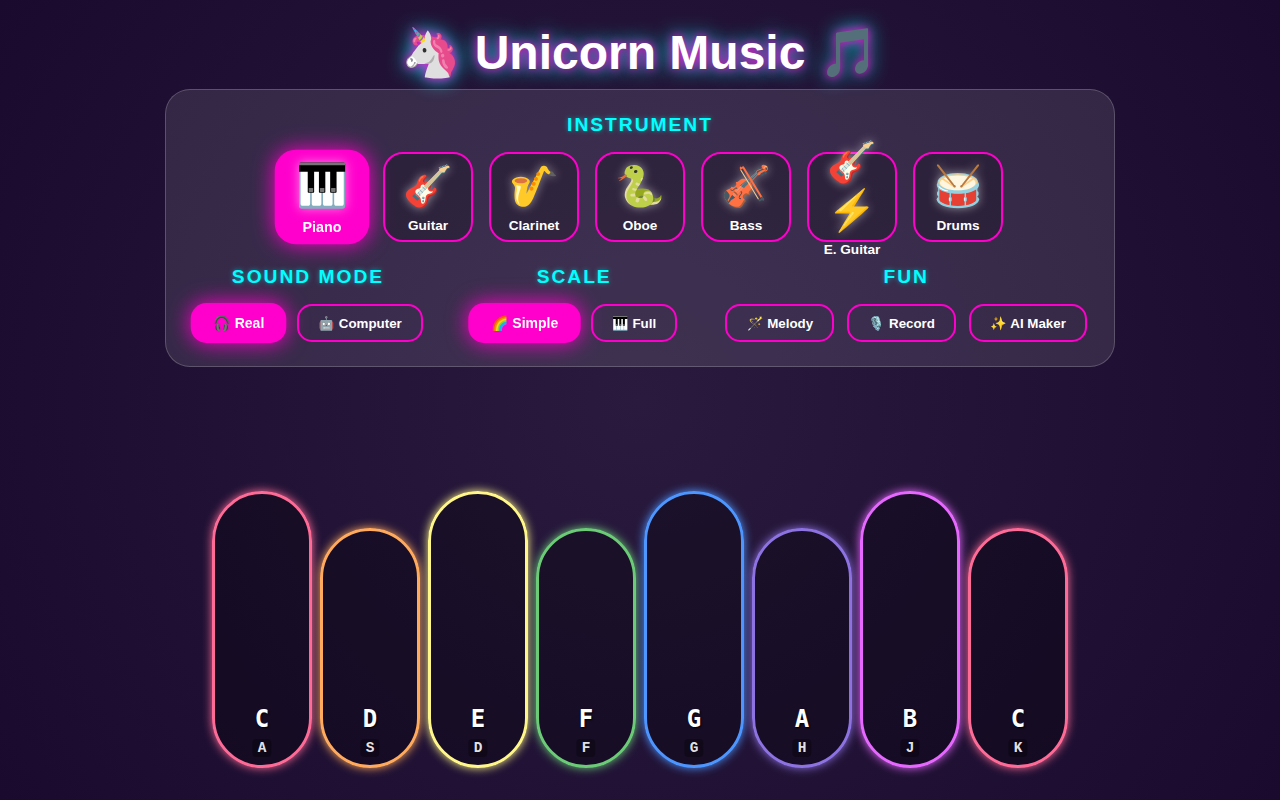
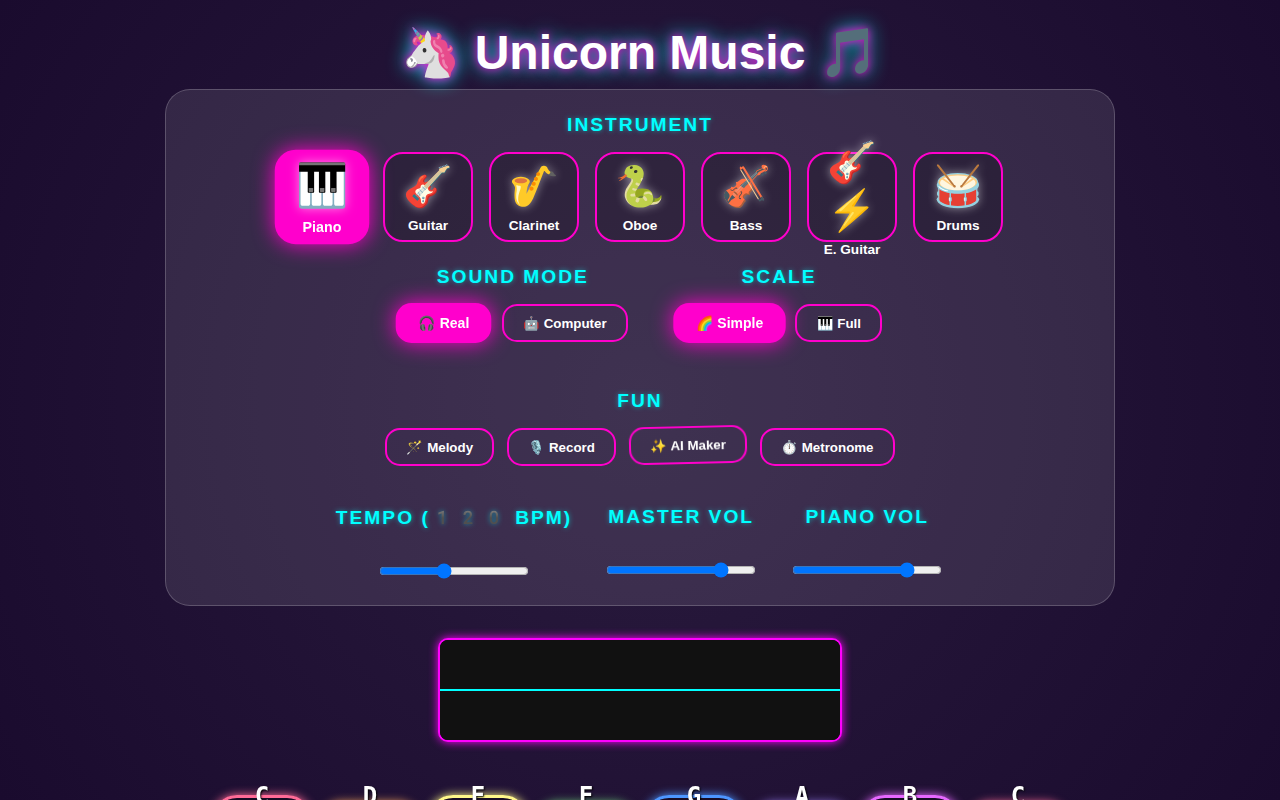
feat: Add metronome, improve audio scaling, and fix keyboard inputs
- Add Metronome feature to `AudioEngine.js` using Tone.Loop and Tone.MembraneSynth
- Add Metronome toggle and Tempo (BPM) slider to `Controls.jsx`
- Fix keyboard event listener in `InstrumentPad.jsx` to ignore input/textarea events
- Improve volume scaling in `AudioEngine.js` using `Tone.gainToDb`
- Prevent overlapping playback in `playMelody` by tracking and clearing Transport events
- Clean up unused variables in catch blocks to satisfy ESLint
- Add three new TODO comments for future development (Piano Roll, SoundFonts, Cloud Saves)

Changed region(s): [[0.1562, 0.4688, 0.8438, 1.0], [0.125, 0.3125, 0.8438, 0.4688]]

diff --git a/src/utils/AudioEngine.js b/src/utils/AudioEngine.js
@@ -38,6 +38,9 @@ class AudioEngine {
         this.recorder = null;
         this.masterGain = null;
         this.globalVolume = 80;
+        this.metronomeSynth = null;
+        this.metronomeLoop = null;
+        this.bpm = 120;
         this.instrumentVolumes = {
             piano: 80,
             guitar: 80,
@@ -109,6 +112,22 @@ class AudioEngine {
         const dist = new Tone.Distortion(0.4).connect(this.masterGain);
         this.instruments.synthElectricGuitar.connect(dist);
 
+        // Metronome Synth
+        this.metronomeSynth = new Tone.MembraneSynth({
+            pitchDecay: 0.008,
+            octaves: 2,
+            envelope: { attack: 0.001, decay: 0.1, sustain: 0 }
+        }).connect(this.masterGain);
+
+        // Metronome Loop
+        this.metronomeLoop = new Tone.Loop((time) => {
+            // Stronger beat on the 1
+            const isDownbeat = (Tone.Transport.position.split(':')[1] === '0' && Tone.Transport.position.split(':')[2].split('.')[0] === '0');
+            this.metronomeSynth.triggerAttackRelease(isDownbeat ? "C3" : "C2", "16n", time);
+        }, "4n");
+
+        Tone.Transport.bpm.value = this.bpm;
+
         // Drum Synths
         this.instruments.drumSynths.kick = new Tone.MembraneSynth().connect(this.masterGain);
         this.instruments.drumSynths.snare = new Tone.NoiseSynth({
@@ -141,6 +160,26 @@ class AudioEngine {
         this._loadPianoSampler();
 
         this.initialized = true;
+    }
+
+    startMetronome() {
+        if (!this.initialized) return;
+        this.metronomeLoop.start(0);
+        Tone.Transport.start();
+    }
+
+    stopMetronome() {
+        if (!this.initialized) return;
+        this.metronomeLoop.stop();
+        // Only stop transport if we aren't using it for other things that need to keep running,
+        // but for now metronome is the main transport user
+        Tone.Transport.stop();
+    }
+
+    setBpm(bpm) {
+        this.bpm = bpm;
+        if (!this.initialized) return;
+        Tone.Transport.bpm.value = bpm;
     }
 
     async startRecording() {
@@ -203,13 +242,15 @@ class AudioEngine {
         this.globalVolume = value;
         if (!this.initialized) return;
 
-        // Map 0-100 to decibels for tone.js (-60 to 0)
+        // Map 0-100 to decibels using logarithmic scaling for more natural volume curve
         // If 0, mute it completely
         if (value === 0) {
             Tone.getDestination().volume.value = -Infinity;
         } else {
-            // Linear mapping from 1-100 to -60 to 0 dB
-            const db = (value / 100) * 60 - 60;
+            // Volume factor between 0 and 1
+            const gain = value / 100;
+            // Tone.gainToDb converts linear gain to decibels (-Infinity for 0, 0 for 1)
+            const db = Tone.gainToDb(gain);
             Tone.getDestination().volume.value = db;
         }
     }
@@ -218,12 +259,9 @@ class AudioEngine {
         this.instrumentVolumes[instrument] = value;
         if (!this.initialized) return;
 
-        // Note: For simplicity, we calculate a volume factor (0 to 1 scale roughly)
-        // and apply it dynamically during play time or to the instrument's specific output volume node.
-        // Since we are using shared samplers/synths, we will apply the volume directly to them if they are the current instrument
-        // To be thorough, we can update the volume of the specific nodes.
-
-        const db = value === 0 ? -Infinity : (value / 100) * 60 - 60; // Map 0-100 to -60 to 0 dB
+        // Apply volume directly to the instrument nodes
+        const gain = value / 100;
+        const db = value === 0 ? -Infinity : Tone.gainToDb(gain);
 
         // Find synth/sampler keys corresponding to instrument
         const synthKey = 'synth' + instrument.charAt(0).toUpperCase() + instrument.slice(1);
@@ -280,6 +318,7 @@ class AudioEngine {
     }
 
     // --- Sampler Loaders ---
+    // TODO: Support uploading custom SoundFonts for samplers
 
     _handleSamplerLoad(instrumentKey, samplerFactory) {
         const sampler = this.instruments[instrumentKey];
@@ -376,15 +415,31 @@ class AudioEngine {
     playMelody(melody) {
         if (!this.initialized) return;
 
-        const now = Tone.now();
+        // Cancel previously scheduled events using Tone.Transport
+        // Since we use Tone.now(), we need to clear previous events if we want to prevent overlap
+        // We will store current scheduled ids in an array and cancel them
+        if (this.currentMelodyIds) {
+            this.currentMelodyIds.forEach(id => Tone.Transport.clear(id));
+        }
+        this.currentMelodyIds = [];
+
+        // Temporarily ensure Transport is started if not already
+        if (Tone.Transport.state !== 'started') {
+             Tone.Transport.start();
+        }
+
         let cumulativeTime = 0;
 
         melody.forEach(item => {
              const duration = item.duration || "8n";
              const note = item.note;
 
-             // Schedule note
-             this.playNote(note, duration, now + cumulativeTime);
+             // Use Tone.Transport to schedule, so we can clear them easily
+             const id = Tone.Transport.schedule((time) => {
+                  this.playNote(note, duration, time);
+             }, "+" + cumulativeTime);
+
+             this.currentMelodyIds.push(id);
 
              cumulativeTime += Tone.Time(duration).toSeconds();
         });

diff --git a/src/components/Controls.jsx b/src/components/Controls.jsx
@@ -10,6 +10,8 @@ const Controls = ({ currentInstrument, setInstrument, currentScale, setScale, so
   };
 
   const [instrumentVolume, setInstrumentVolume] = useState(80);
+  const [isMetronomePlaying, setIsMetronomePlaying] = useState(false);
+  const [bpm, setBpm] = useState(120);
 
   // When instrument changes, update the local instrument volume state
   React.useEffect(() => {
@@ -26,6 +28,22 @@ const Controls = ({ currentInstrument, setInstrument, currentScale, setScale, so
     const val = Number(e.target.value);
     setInstrumentVolume(val);
     AudioEngine.setInstrumentVolume(currentInstrument, val);
+  };
+
+  const toggleMetronome = () => {
+    if (isMetronomePlaying) {
+      AudioEngine.stopMetronome();
+      setIsMetronomePlaying(false);
+    } else {
+      AudioEngine.startMetronome();
+      setIsMetronomePlaying(true);
+    }
+  };
+
+  const handleBpmChange = (e) => {
+    const newBpm = Number(e.target.value);
+    setBpm(newBpm);
+    AudioEngine.setBpm(newBpm);
   };
 
   return (
@@ -102,11 +120,29 @@ const Controls = ({ currentInstrument, setInstrument, currentScale, setScale, so
                 <button className="control-btn" onClick={onOpenMagic}>
                     ✨ AI Maker
                 </button>
+                <button
+                  className={`control-btn ${isMetronomePlaying ? 'active' : ''}`}
+                  onClick={toggleMetronome}
+                  aria-pressed={isMetronomePlaying}
+                >
+                  ⏱ Metronome
+                </button>
             </div>
          </div>
       </div>
 
       <div className="settings-row" style={{ marginTop: '1rem', justifyContent: 'center', gap: '2rem' }}>
+        <div className="control-group" style={{ display: 'flex', alignItems: 'center', gap: '1rem' }}>
+          <h3>Tempo ({bpm} BPM)</h3>
+          <input
+            type="range"
+            min="60"
+            max="200"
+            value={bpm}
+            onChange={handleBpmChange}
+            style={{ width: '150px' }}
+          />
+        </div>
         <div className="control-group" style={{ display: 'flex', alignItems: 'center', gap: '1rem' }}>
           <h3>Master Vol</h3>
           <input

diff --git a/src/components/InstrumentPad.jsx b/src/components/InstrumentPad.jsx
@@ -104,6 +104,10 @@ const InstrumentPad = ({ currentScale, currentInstrument }) => {
 
   useEffect(() => {
     const handleKeyDown = (e) => {
+      // Ignore key events if the user is typing in an input or textarea
+      const target = e.target.tagName.toLowerCase();
+      if (target === 'input' || target === 'textarea') return;
+
       if (e.repeat) return;
 
       const key = e.key.toLowerCase();
@@ -133,7 +137,7 @@ const InstrumentPad = ({ currentScale, currentInstrument }) => {
         window.removeEventListener('keydown', handleKeyDown);
         window.removeEventListener('keyup', handleKeyUp);
     };
-  }, [notes, currentInstrument, currentScale]);
+  }, [notes, currentInstrument, currentScale, handlePlay]);
 
   const getShortcut = (index) => {
       if (currentInstrument === 'drums' || currentScale === 'simple') {

diff --git a/src/services/aiService.js b/src/services/aiService.js
@@ -21,7 +21,7 @@ export const AIService = {
             });
             if (!res.ok) throw new Error("Generation failed");
             return await res.json();
-        } catch (e) {
+        } catch {
              console.warn("AI Generation unavailable, using fallback mock.");
              return { success: false, message: "Magic Server not found! (This feature needs a backend)" };
         }
@@ -41,7 +41,7 @@ export const AIService = {
             });
             if (!res.ok) throw new Error("Editing failed");
             return await res.json();
-        } catch (e) {
+        } catch {
              console.warn("AI Edit unavailable, using fallback mock.");
              return { success: false, message: "Magic Server not found! (This feature needs a backend)" };
         }

diff --git a/src/App.jsx b/src/App.jsx
@@ -8,6 +8,7 @@ import Visualizer from './components/Visualizer'
 import { INSTRUMENTS } from './constants'
 
 function App() {
+  // TODO: Add a Piano Roll editor view for advanced users
   const [currentInstrument, setCurrentInstrument] = useState('piano')
   const [currentScale, setCurrentScale] = useState('simple')
   const [soundType, setSoundType] = useState('sampled')

diff --git a/src/components/RecordingStudio.jsx b/src/components/RecordingStudio.jsx
@@ -29,6 +29,7 @@ const RecordingStudio = ({ onClose }) => {
     };
 
     const handleDownload = () => {
+        // TODO: Implement cloud saving of recorded sessions
         if (!recordedBlob) return;
         const url = URL.createObjectURL(recordedBlob);
         const a = document.createElement('a');
